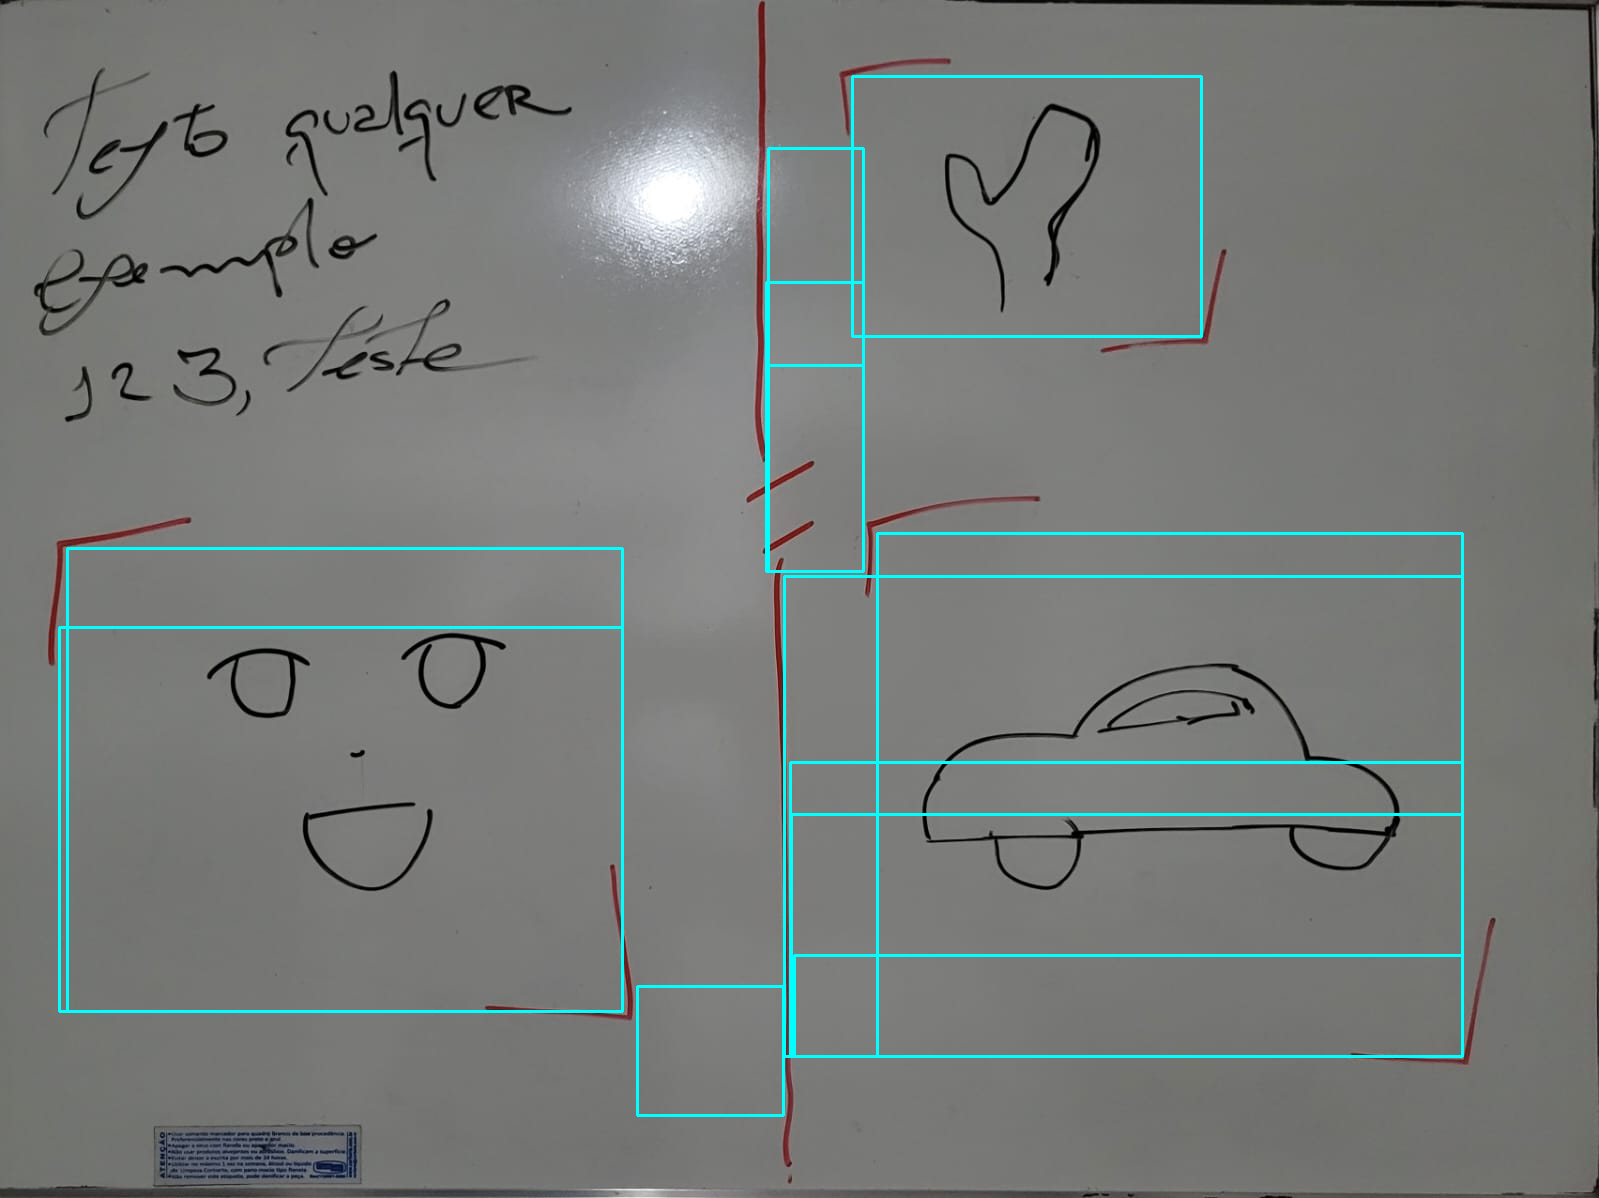
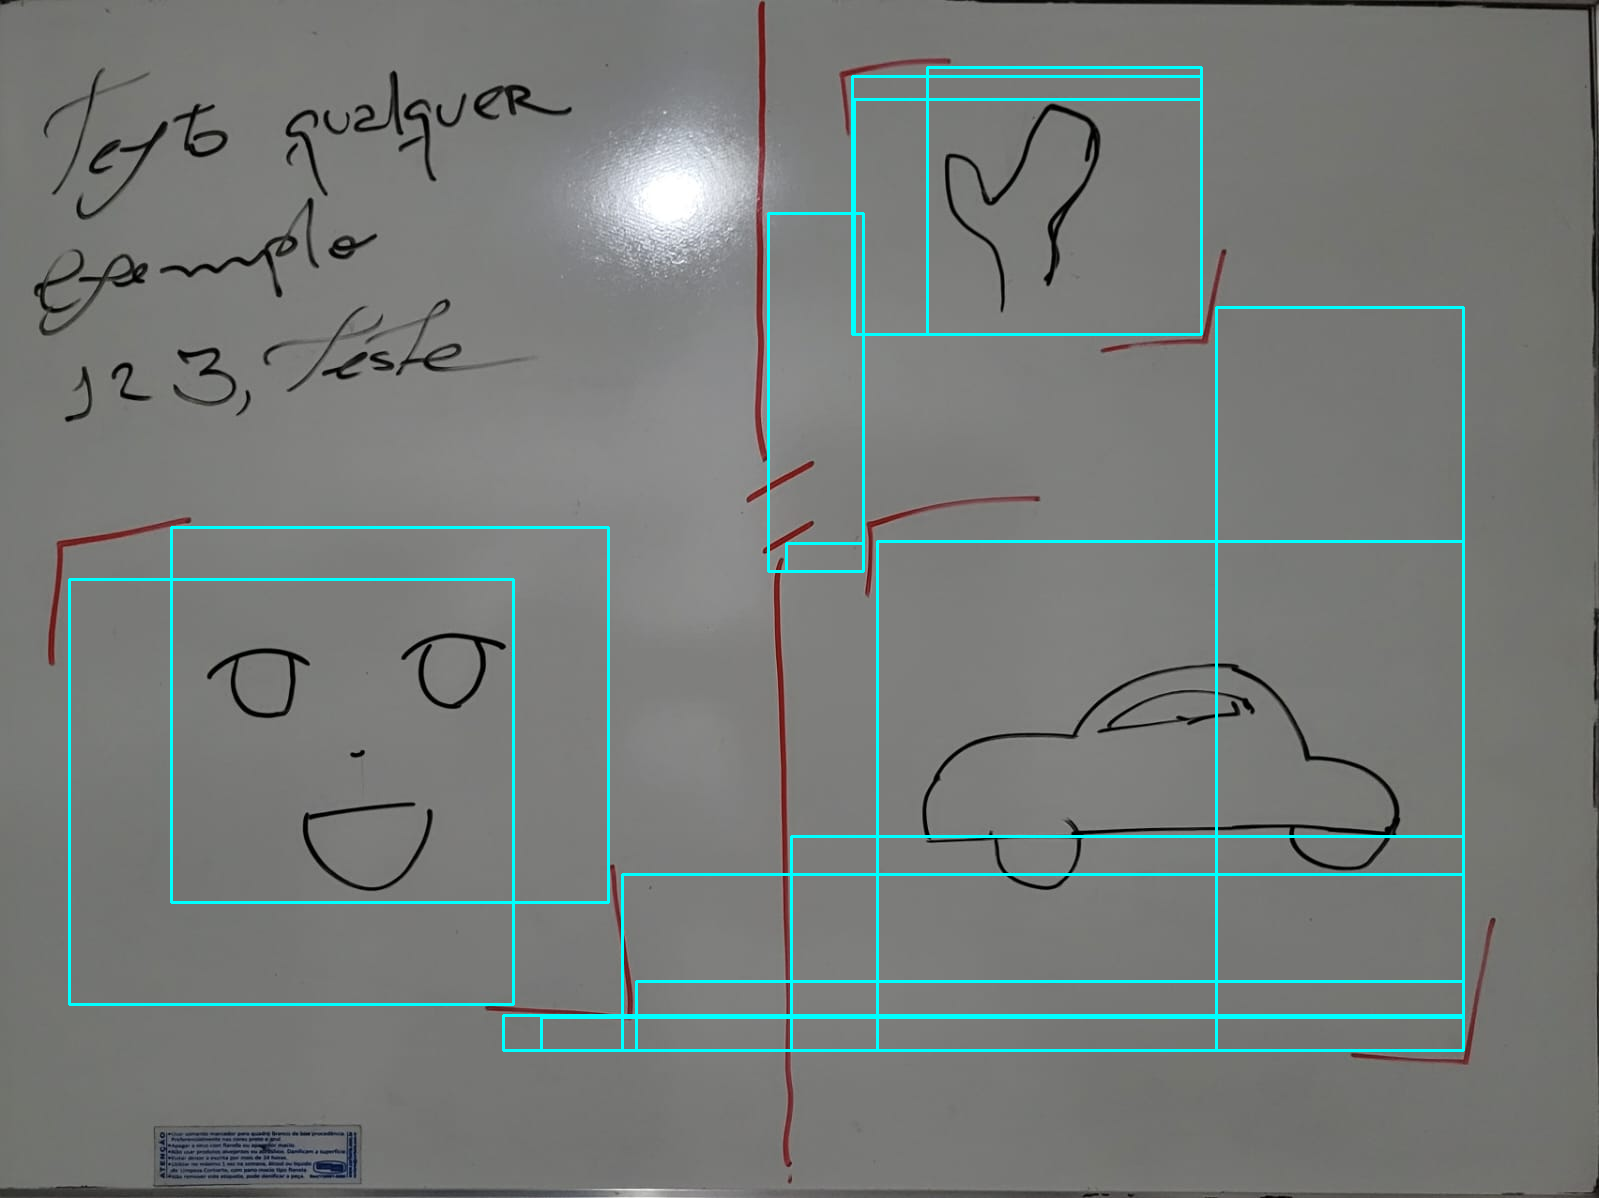
criado novos templates, restruturada local da pasta

diff --git a/src/corners.py b/src/corners.py
@@ -57,8 +57,8 @@ def preprocessing(image):
 # match patterns
 def pmatch(image, confidence_threshold):
     # for div 
-    div = cv2.imread("image/div_bw.png", cv2.IMREAD_GRAYSCALE) 
-    match = cv2.matchTemplate(image, div, cv2.TM_CCOEFF_NORMED)
+    div = cv2.imread("src/match/div_bw.png", cv2.IMREAD_GRAYSCALE) 
+    match = cv2.matchTemplate(image, div, cv2.TM_CCORR_NORMED)
 
     h, w = div.shape
     y_loc, x_loc = np.where(match >= confidence_threshold)
@@ -74,8 +74,8 @@ def pmatch(image, confidence_threshold):
     #     cv2.rectangle(pm_image, [x,y], [x + w, y + h], (255, 0, 255), 2)
     
     # for top corners 
-    topcorner = cv2.imread("image/top_corner_bw.png", cv2.IMREAD_GRAYSCALE) 
-    match = cv2.matchTemplate(image, topcorner, cv2.TM_CCOEFF_NORMED)
+    topcorner = cv2.imread("src/match/top_corner_bw.png", cv2.IMREAD_GRAYSCALE) 
+    match = cv2.matchTemplate(image, topcorner, cv2.TM_CCORR_NORMED)
 
     h, w = topcorner.shape
     y_loc, x_loc = np.where(match >= confidence_threshold)
@@ -91,8 +91,8 @@ def pmatch(image, confidence_threshold):
     #     cv2.rectangle(pm_image, [x,y], [x + w, y + h], (255, 0, 255), 2)
     
     # for bottom corners 
-    bottomcorner = cv2.imread("image/bottom_corner_bw.png", cv2.IMREAD_GRAYSCALE) 
-    match = cv2.matchTemplate(image, bottomcorner, cv2.TM_CCOEFF_NORMED)
+    bottomcorner = cv2.imread("src/match/bottom_corner_bw.png", cv2.IMREAD_GRAYSCALE) 
+    match = cv2.matchTemplate(image, bottomcorner, cv2.TM_CCORR_NORMED)
 
     h, w = bottomcorner.shape
     y_loc, x_loc = np.where(match >= confidence_threshold)
